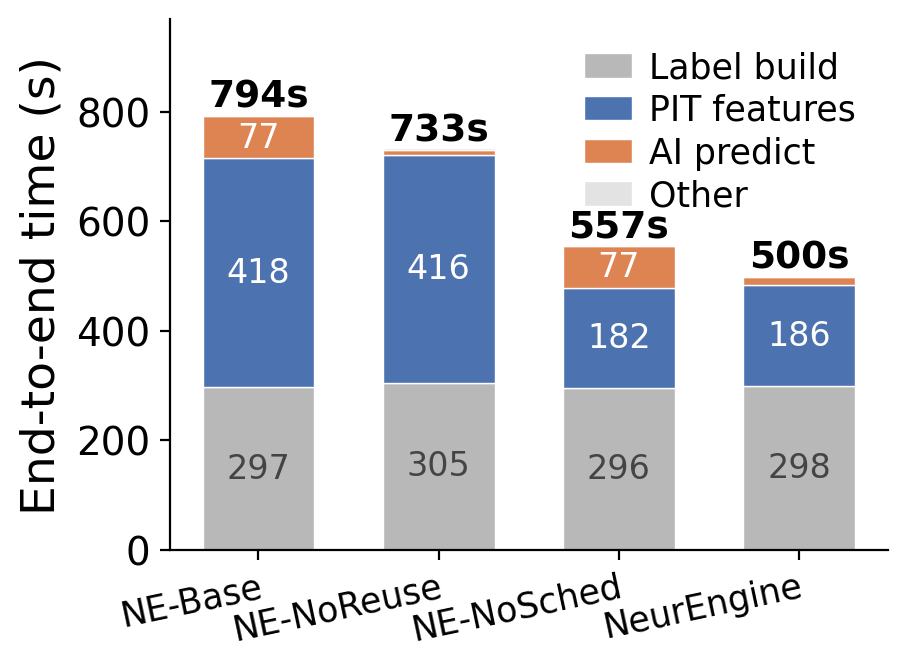
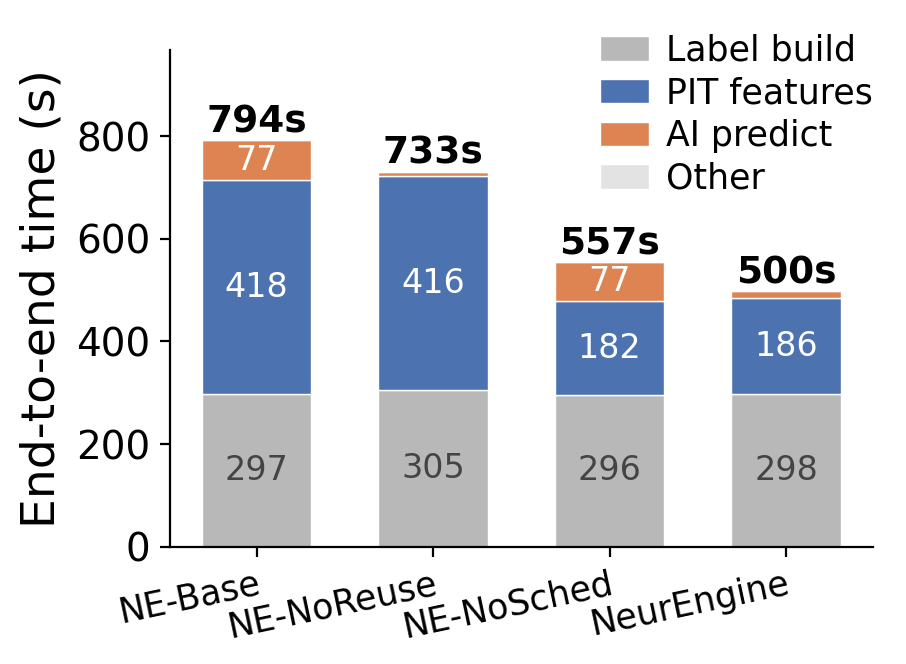
Nudge ablation figure legend into upper-right corner

diff --git a/script/experiment/db-26/figure/plot_ablation.py b/script/experiment/db-26/figure/plot_ablation.py
@@ -124,6 +124,8 @@ ax.set_ylabel("End-to-end time (s)")
 ax.set_ylim(0, naive * 1.22)
 ax.legend(
     loc="upper right",
+    bbox_to_anchor=(1.02, 1.06),
+    borderaxespad=0,
     frameon=False,
     handlelength=1.4,
     handletextpad=0.5,
